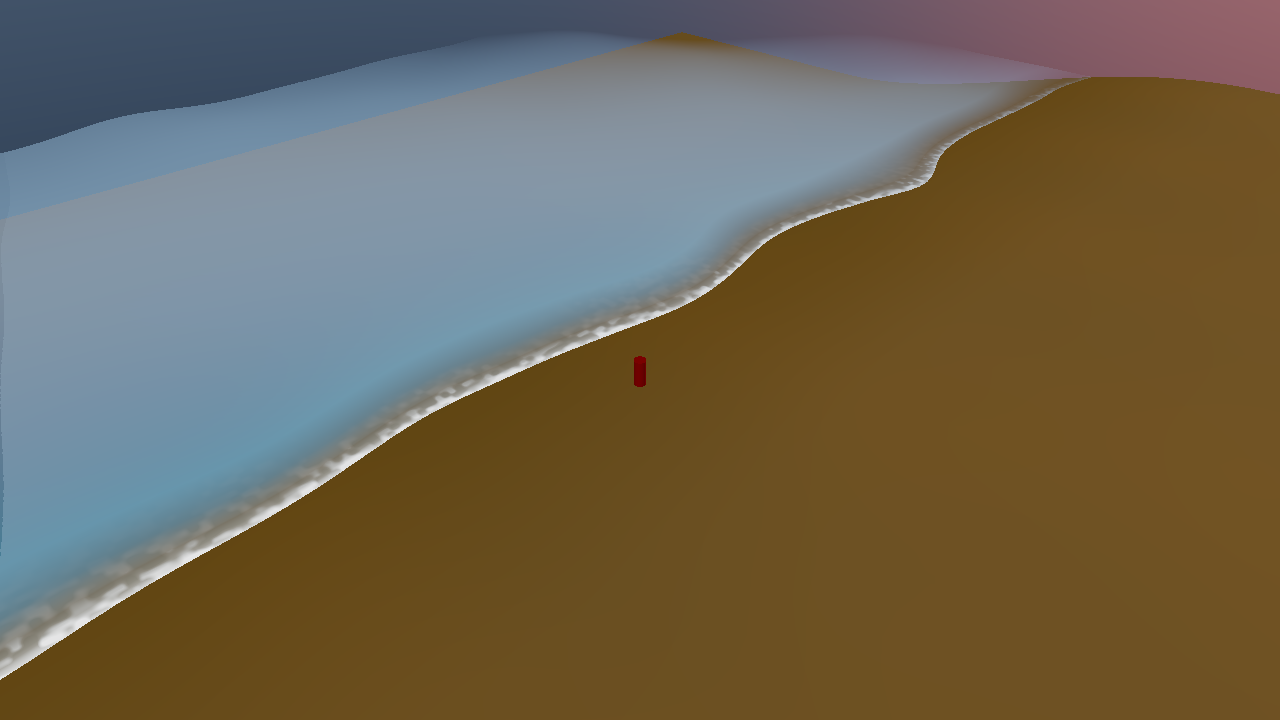
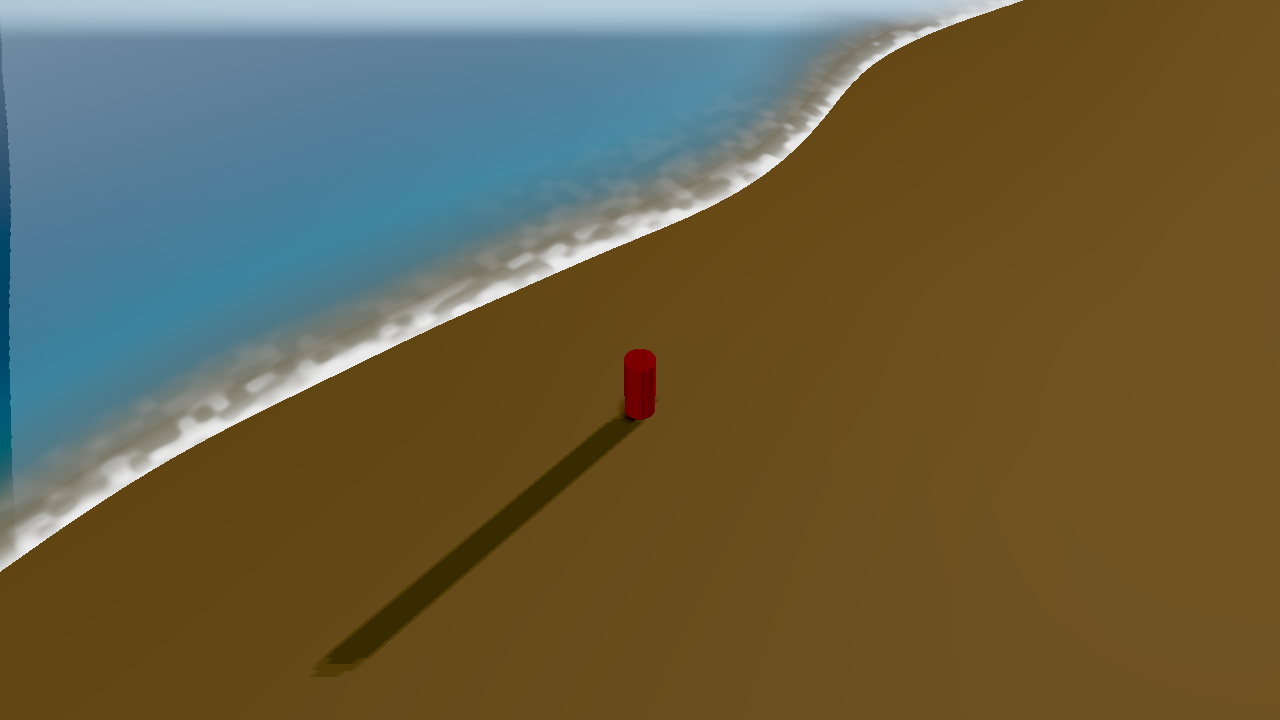
feat(p9): add player contact shadow and verify low-sun shadows

diff --git a/Assets/Game/Editor/RpgLabScene.cs b/Assets/Game/Editor/RpgLabScene.cs
@@ -10,6 +10,7 @@ namespace Fengling.EditorTools
     {
         private const string SourcePath = "Assets/Scenes/P2Minimal.unity";
         private const string ScenePath = "Assets/Scenes/RpgLab.unity";
+        private const string BlobMatPath = "Assets/Game/Rendering/Materials/BlobShadow.mat";
         private const string PendingKey = "RpgLab.Pending";
         private const string StartKey = "RpgLab.Start";
         private const string StageKey = "RpgLab.Stage";
@@ -43,9 +44,33 @@ namespace Fengling.EditorTools
                 return;
             }
 
+            // 贴地 contact shadow：清晨/黄昏真实阴影太弱时保证玩家不悬空。
+            var blobMat = AssetDatabase.LoadAssetAtPath<Material>(BlobMatPath);
+            if (blobMat == null)
+            {
+                blobMat = new Material(Shader.Find("Fengling/Blob Shadow"))
+                {
+                    name = "BlobShadow",
+                    color = new Color(0f, 0f, 0f, 0.38f),
+                };
+                AssetDatabase.CreateAsset(blobMat, BlobMatPath);
+            }
+            var blobGo = GameObject.CreatePrimitive(PrimitiveType.Quad);
+            blobGo.name = "PlayerBlobShadow";
+            Object.DestroyImmediate(blobGo.GetComponent<MeshCollider>());
+            blobGo.transform.position = new Vector3(0f, terrain.SampleHeight(0f, 0f) + 0.03f, 0f);
+            blobGo.transform.rotation = Quaternion.Euler(90f, 0f, 0f);
+            blobGo.transform.localScale = new Vector3(1.6f, 1.6f, 1f);
+            var blobRenderer = blobGo.GetComponent<MeshRenderer>();
+            blobRenderer.sharedMaterial = blobMat;
+            blobRenderer.shadowCastingMode = UnityEngine.Rendering.ShadowCastingMode.Off;
+            blobRenderer.receiveShadows = false;
+            var blob = blobGo.AddComponent<Player.PlayerBlobShadow>();
+            blob.target = player.transform;
+            blob.terrain = terrain;
+
             var rts = cam.GetComponent<Player.RtsCameraController>();
-            if (rts == null) rts = cam.gameObject.AddComponent<Player.RtsCameraController>();
-            rts.focusTarget = player.transform;
+            if (rts == null) rts = cam.gameObject.AddComponent<Player.RtsCameraController>();            rts.focusTarget = player.transform;
             rts.startFocused = true;
             rts.terrain = terrain;
             rts.boundsHalf = new Vector2(terrain.size.x * 0.5f - 5f, terrain.size.y * 0.5f - 5f);

diff --git a/Assets/Game/Player/PlayerBlobShadow.cs b/Assets/Game/Player/PlayerBlobShadow.cs
@@ -1,0 +1,58 @@
+using UnityEngine;
+using Fengling.Environment;
+
+namespace Fengling.Player
+{
+    /// <summary>
+    /// 很淡的贴地 contact shadow，补清晨/黄昏真实 shadow 太弱时的角色可读性。
+    /// 不替代真实阴影，只负责“脚底不悬空”。
+    /// </summary>
+    [AddComponentMenu("Fengling/Player/Player Blob Shadow")]
+    public sealed class PlayerBlobShadow : MonoBehaviour
+    {
+        public Transform target;
+        public CoastTerrain terrain;
+        public float diameter = 1.6f;
+        public float groundOffset = 0.03f;
+        public float maxHeight = 2.5f;
+        public Color color = new Color(0f, 0f, 0f, 0.38f);
+
+        private MeshRenderer _renderer;
+        private Material _material;
+        private float _baseAlpha;
+
+        private void Awake()
+        {
+            _renderer = GetComponent<MeshRenderer>();
+            if (_renderer != null)
+            {
+                _renderer.shadowCastingMode = UnityEngine.Rendering.ShadowCastingMode.Off;
+                _renderer.receiveShadows = false;
+                _material = _renderer.material;
+            }
+            if (terrain == null)
+                terrain = Object.FindFirstObjectByType<CoastTerrain>();
+            _baseAlpha = color.a;
+        }
+
+        private void LateUpdate()
+        {
+            if (target == null || terrain == null || _material == null) return;
+
+            float ground = terrain.SampleHeight(target.position.x, target.position.z);
+            float height = target.position.y - ground;
+            float visible = Mathf.Clamp01(1f - Mathf.InverseLerp(maxHeight * 0.6f, maxHeight, height));
+
+            Vector3 p = target.position;
+            p.y = ground + groundOffset;
+            transform.position = p;
+            transform.rotation = Quaternion.Euler(90f, 0f, 0f);
+            transform.localScale = new Vector3(diameter, diameter, 1f);
+
+            Color c = color;
+            c.a = _baseAlpha * visible;
+            _material.SetColor("_Color", c);
+            _renderer.enabled = visible > 0.01f;
+        }
+    }
+}

diff --git a/Assets/Game/Editor/TimeOfDayCapture.cs b/Assets/Game/Editor/TimeOfDayCapture.cs
@@ -56,8 +56,8 @@ namespace Fengling.EditorTools
             var rts = cam.GetComponent<Player.RtsCameraController>();
             if (rts != null)
             {
-                rts.pitch = 35f;
-                rts.distance = 60f;
+                rts.pitch = 45f;
+                rts.distance = 24f;
                 rts.FocusOnPlayer();
             }
 

diff --git a/Docs/Phase2昼夜执行记录_2026-11-20.md b/Docs/Phase2昼夜执行记录_2026-11-20.md
@@ -145,4 +145,26 @@
 - 6:00 阴影太淡，需要继续调 fade 曲线或给角色补 contact/blob shadow；
 - 这仍然是单级阴影，4 级级联另做。
 
+---
+
+## 8. 低太阳影子复验 + contact shadow
+
+复验机位拉近到 distance=24、pitch=45：
+
+- 6:00 影子约 6–8m，不再是拖到屏幕外的长矛；
+- 18:00 影子方向反转，长度正常；
+- 12:00 短影不变；
+- 玩家脚下增加 `PlayerBlobShadow`：贴地半透明接触阴影，真实 shadow 太淡时兜底。
+
+![6:00 近距离](images/p9_time_06.png)
+
+![18:00 近距离](images/p9_time_18.png)
+
+当前取舍：
+
+- 真实 shadow 在 6:00/18:00 已经可见，blob 主要作为极端角度/阴影丢失时的兜底；
+- 还没有 contact shadow 的独立对比截图；
+- 4 级级联仍未完成。
+
+
 
